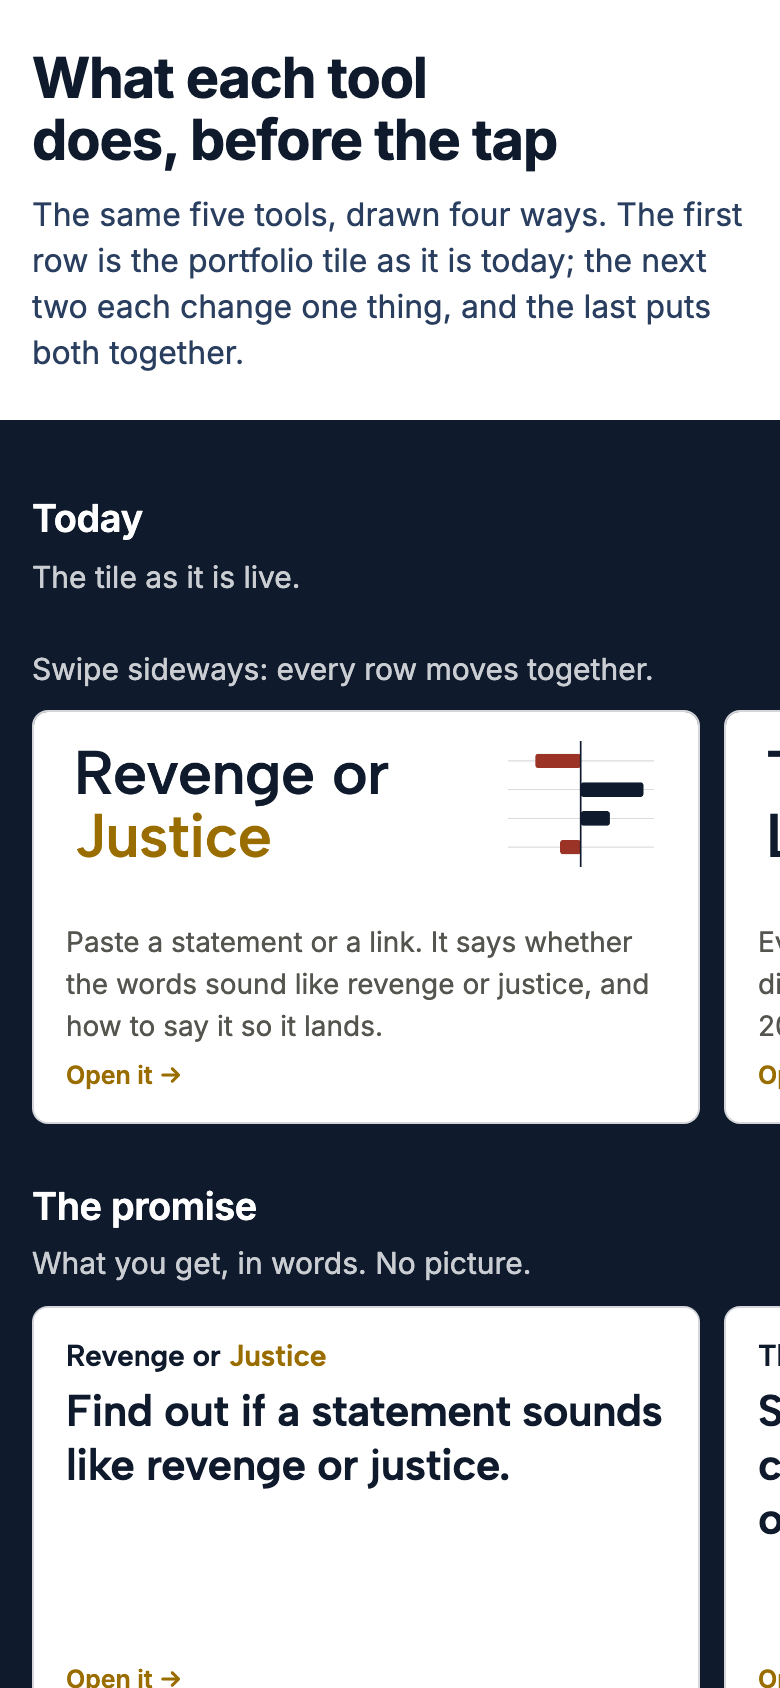
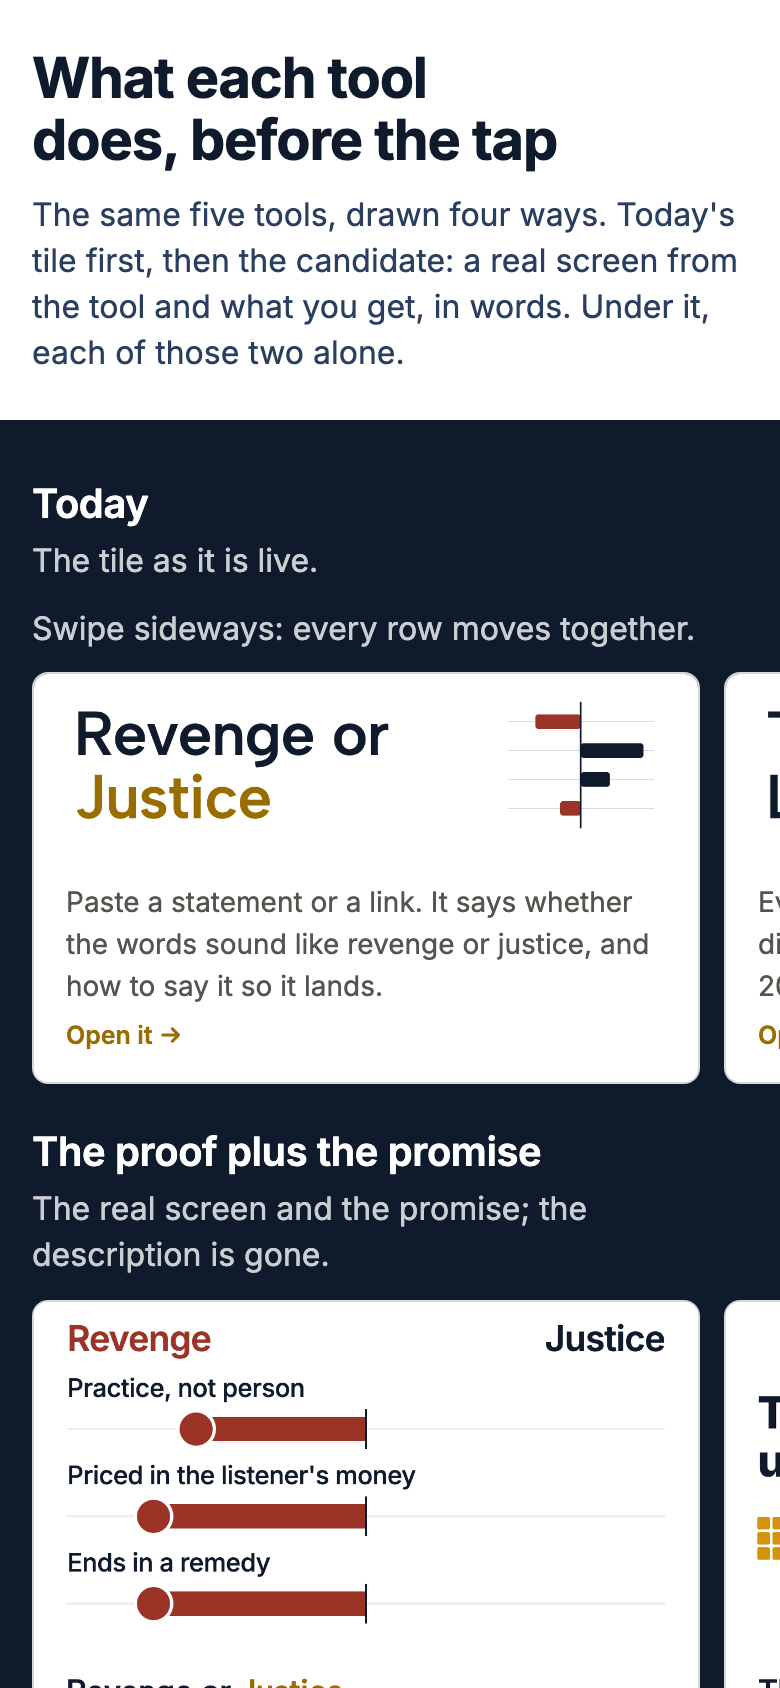
tile-value mockup, third pass on the second review's six fixes
Letters is one H with its three strokes numbered and arrowed, in the app's own
classes. Revenge or Justice shows three named readings as bars with an end dot
and large Revenge and Justice ends, from the one real reading. The Undo List is
cut to its headline and squares. The candidate row sits second, on the first
screen at 1440x900. Wonder Cards' promise loses its second sentence. One
promise size and five type sizes on the page.

diff --git a/public/mockups/tile-value.html b/public/mockups/tile-value.html
@@ -5,7 +5,7 @@
 <meta name="viewport" content="width=device-width, initial-scale=1">
 <meta name="robots" content="noindex">
 <title>What each tool does, before the tap</title>
-<meta name="description" content="Five portfolio tiles drawn four ways: today's tile, the promise, the proof, and the proof plus the promise.">
+<meta name="description" content="Five portfolio tiles drawn four ways: today's tile, the proof plus the promise, then each alone.">
 <meta property="og:title" content="What each tool does, before the tap">
 <meta property="og:description" content="Five portfolio tiles drawn four ways, to pick how a tile says what its tool does.">
 <meta property="og:image" content="https://hoplight.ai/og.png">
@@ -21,8 +21,9 @@
   do that artfully clearly and tastefully".
 
   The job: a stranger sees, before tapping, what each tool does for them. Five tools (Revenge or Justice,
-  The Undo List, Letters, Which AI should I use?, Wonder Cards), four rows: today's live tile and three
-  treatments (the promise, the proof, and both together; the first-move row was folded into the last). Columns line up, so one tool stacks down the page and a row reads
+  The Undo List, Letters, Which AI should I use?, Wonder Cards), four rows: today's live tile, then the
+  candidate (the proof plus the promise, with the first move as its link), then the promise alone and the
+  proof alone as the alternatives. The candidate sits second so it shows on the first screen. Columns line up, so one tool stacks down the page and a row reads
   as a whole portfolio.
 
   References borrowed (design/references/REFERENCES.md):
@@ -77,15 +78,17 @@ html, body { margin: 0; background: #FFFFFF; color: #0F1B2D; }
 body { font-family: 'Inter', -apple-system, BlinkMacSystemFont, 'Segoe UI', Helvetica, Arial, sans-serif; font-size: 16px; line-height: 1.45; -webkit-text-size-adjust: 100%; }
 .sr { position: absolute; width: 1px; height: 1px; overflow: hidden; clip: rect(0 0 0 0); white-space: nowrap; }
 
-.top { max-width: 1440px; margin: 0 auto; padding: 32px 24px 28px; }
+.top { max-width: 1440px; margin: 0 auto; padding: 28px 24px 22px; }
 h1 { font-size: clamp(28px, 1.2rem + 1.6vw, 42px); font-weight: 700; letter-spacing: -0.02em; line-height: 1.1; margin: 0 0 10px; text-wrap: balance; }
-.lede { margin: 0; font-size: 17px; max-width: 62ch; color: #2A3F5F; }
+.lede { margin: 0; font-size: 16px; color: #2A3F5F; }
 
 .field { background: #0F1B2D; color: #FFFFFF; padding: 8px 0 48px; }
 .grid { max-width: 1440px; margin: 0 auto; padding: 0 24px; display: grid; grid-template-columns: repeat(5, minmax(0, 1fr)); column-gap: 16px; }
-.rowhead { grid-column: 1 / -1; padding: 36px 0 14px; }
+/* At desktop a row's name and note share one line, so the candidate row reaches the first screen. */
+.rowhead { grid-column: 1 / -1; padding: 26px 0 12px; }
+.rowhead > div { display: flex; flex-wrap: wrap; align-items: baseline; column-gap: 14px; }
 .rowhead h2 { font-size: 20px; font-weight: 600; letter-spacing: -0.01em; margin: 0; }
-.rowhead p { margin: 4px 0 0; font-size: 15px; color: rgba(255, 255, 255, 0.78); max-width: 72ch; }
+.rowhead p { margin: 2px 0 0; font-size: 16px; color: rgba(255, 255, 255, 0.78); max-width: 72ch; }
 .swipe { display: none; }
 
 /* A tile, as the live portfolio draws it (globals.css .wcard), then changed one way per row. */
@@ -93,13 +96,13 @@ h1 { font-size: clamp(28px, 1.2rem + 1.6vw, 42px); font-weight: 700; letter-spac
 .tile:focus-visible { outline: 3px solid #E8A820; outline-offset: 3px; }
 .pic { aspect-ratio: 1200 / 630; background: #0F1B2D; overflow: hidden; }
 .pic img { width: 100%; height: 100%; display: block; object-fit: cover; }
-.body { padding: 20px; flex: 1; display: flex; flex-direction: column; }
+.body { padding: 16px 20px; flex: 1; display: flex; flex-direction: column; }
 .line { margin: 0; font-size: 14px; line-height: 1.5; color: #555550; flex: 1; }
 .go { margin-top: 12px; font-size: 12.5px; font-weight: 600; color: #996D00; }
 .tile:hover .go { text-decoration: underline; text-underline-offset: 3px; }
 
 /* The tool's name in its own face and colours, small, above a promise or a line. */
-.nm { font-family: var(--face); font-weight: var(--w); font-size: 15px; line-height: 1.15; letter-spacing: -0.01em; color: var(--ink); margin: 0 0 6px; }
+.nm { font-family: var(--face); font-weight: var(--w); font-size: 16px; line-height: 1.15; letter-spacing: -0.01em; color: var(--ink); margin: 0 0 6px; }
 .nm b { font-weight: inherit; color: var(--accent); }
 .pr { font-family: var(--face); font-weight: var(--w); font-size: 20px; line-height: 1.22; letter-spacing: -0.015em; color: var(--ink); margin: 0; flex: 1; text-wrap: pretty; }
 
@@ -107,25 +110,25 @@ h1 { font-size: clamp(28px, 1.2rem + 1.6vw, 42px); font-weight: 700; letter-spac
 .say { background: var(--ground); padding: 20px; flex: 1; display: flex; flex-direction: column; min-height: 168px; }
 .say .nm { color: var(--onground); }
 .say .nm b { color: var(--onaccent); }
-.say .pr { color: var(--onground); font-size: 22px; }
+.say .pr { color: var(--onground); }
 .foot { padding: 12px 20px 14px; }
 .foot .go { margin-top: 0; }
 
-/* The proof plus the promise: the name small, the promise under it, the line gone. */
-.both .pr { font-size: 19px; }
+/* Five type sizes on the page: 42 the title, 20 the row names and every promise (one size in both
+   promise rows, so the alternative is never louder than the candidate), 16 the lede, row notes and
+   tool names, 14 the tile line as live, 12.5 the link as live. */
 
 @media (max-width: 1099px) {
   /* Phone and tablet: the field swipes sideways as one piece, so every row moves together and one
      tool stays stacked down the page. The row names stay pinned to the left edge while it moves. */
   .field { overflow-x: auto; scroll-snap-type: x mandatory; scroll-padding-left: 16px; -webkit-overflow-scrolling: touch; overscroll-behavior-x: contain; }
   .grid { --tw: min(334px, calc(100vw - 56px)); grid-template-columns: repeat(5, var(--tw)); column-gap: 12px; padding: 0 16px; width: max-content; max-width: none; }
-  .rowhead { padding: 28px 0 10px; }
-  .rowhead > div { position: sticky; left: 16px; width: calc(100vw - 32px); }
-  .rowhead h2 { font-size: 19px; }
+  .rowhead { padding: 20px 0 10px; }
+  .rowhead > div { display: block; position: sticky; left: 16px; width: calc(100vw - 32px); }
+  .lede { max-width: 62ch; }
   .tile { scroll-snap-align: start; }
-  .swipe { display: block; margin: 0; padding: 20px 0 0; font-size: 14px; color: rgba(255, 255, 255, 0.78); }
+  .swipe { display: block; margin: 0; padding: 8px 0 0; font-size: 14px; color: rgba(255, 255, 255, 0.78); }
   .top { padding: 24px 16px 22px; }
-  .lede { font-size: 16px; }
 }
 @media (max-width: 640px) {
   /* As live at this width: the card face is cropped to its middle band and the text sits tighter. */
@@ -141,7 +144,7 @@ h1 { font-size: clamp(28px, 1.2rem + 1.6vw, 42px); font-weight: 700; letter-spac
 <main>
   <div class="top">
     <h1>What each tool does, before the tap</h1>
-    <p class="lede">The same five tools, drawn four ways. The first row is the portfolio tile as it is today; the next two each change one thing, and the last puts both together.</p>
+    <p class="lede">The same five tools, drawn four ways. Today's tile first, then the candidate: a real screen from the tool and what you get, in words. Under it, each of those two alone.</p>
   </div>
   <section class="field" aria-label="Four ways to draw a tile">
     <div class="grid" id="grid"></div>
@@ -164,7 +167,7 @@ h1 { font-size: clamp(28px, 1.2rem + 1.6vw, 42px); font-weight: 700; letter-spac
       promise: 'Find out if a statement sounds like revenge or justice.',
       // Its page's first instruction: "Paste a statement or a link."
       move: 'Paste a statement',
-      proofAlt: 'A real reading from Revenge or Justice: three bars running left from the centre line toward Revenge, away from Justice.' },
+      proofAlt: 'One real reading from Revenge or Justice: Practice, not person; Priced in the listener\'s money; Ends in a remedy; each a bar running from the centre toward Revenge, away from Justice.' },
     { slug: 'undo', name: 'The Undo List', plain: 'The Undo List', href: '/undo',
       face: ALBERT, w: 600, ink: NAVY, accent: NAVY, ground: WHITE, onground: NAVY, onaccent: NAVY,
       line: 'Everything the second Trump administration did, sorted by what it takes to undo it in 2029.',
@@ -172,7 +175,7 @@ h1 { font-size: clamp(28px, 1.2rem + 1.6vw, 42px); font-weight: 700; letter-spac
       promise: 'See what the next president can undo, and what each one takes.',
       // Its first screen's one button: "Sign the first order".
       move: 'Sign the first order',
-      proofAlt: 'The Undo List: the headline Thirteen signatures undo 275 things, over a field of squares, the first block gold.' },
+      proofAlt: 'The Undo List: the headline Thirteen signatures undo 275 things, over rows of squares, the first block gold.' },
     { slug: 'letters', name: 'Letters', plain: 'Letters', href: 'https://letters-ten-eta.vercel.app', ext: true,
       face: INTER, w: 700, ink: '#3A3226', accent: '#B4541A', ground: '#E9F0F3', onground: '#3A3226', onaccent: '#B4541A',
       line: 'A letter-formation app for a four-year-old: where each stroke starts, which way it goes, and in what order. Then paper.',
@@ -180,7 +183,7 @@ h1 { font-size: clamp(28px, 1.2rem + 1.6vw, 42px); font-weight: 700; letter-spac
       promise: 'Teach a four-year-old where each stroke starts and which way it goes.',
       // Its first screen's button is "Start"; what follows is tracing (tools.ts: "letter-formation").
       move: 'Start tracing',
-      proofAlt: 'Letters: the letter H three times, its strokes numbered 1, 2 and 3 in order, each with an arrow showing which way it goes.' },
+      proofAlt: 'Letters: the letter H, its three strokes numbered 1, 2 and 3 in order, each with an arrow showing which way it goes.' },
     { slug: 'which-ai-should-i-use', name: 'Which AI should I use?', plain: 'Which AI should I use?', href: '/tools/which-ai',
       face: ALBERT, w: 600, ink: NAVY, accent: NAVY, ground: WHITE, onground: NAVY, onaccent: NAVY,
       line: 'Answer a few questions, get told which model fits the job.',
@@ -195,8 +198,8 @@ h1 { font-size: clamp(28px, 1.2rem + 1.6vw, 42px); font-weight: 700; letter-spac
       // talking about, one at a time, on sunlit poolside photographs, a Capri lemon grove").
       line: 'Questions worth talking about, one card at a time, on photographs of Capri and Palm Beach.',
       // Its page: the card's label "A question to talk about"; the topic screen "Where shall we sit today?";
-      // its description "Press once for another card, or sit with a single topic".
-      promise: 'A question to talk about, whenever you sit down together. Press once for the next.',
+      // its description "sit with a single topic".
+      promise: 'A question to talk about, whenever you sit down together.',
       // Its card's main button: "Draw another card".
       move: 'Draw a card',
       proofAlt: 'Wonder Cards: a card from the Screen topic asking What do you watch now that would have shocked you at twenty?' },
@@ -205,12 +208,12 @@ h1 { font-size: clamp(28px, 1.2rem + 1.6vw, 42px); font-weight: 700; letter-spac
   var ROWS = [
     { key: 'today', title: 'Today',
       note: 'The tile as it is live.' },
-    { key: 'promise', title: 'The promise',
-      note: 'What you get, in words. No picture.' },
-    { key: 'proof', title: 'The proof',
-      note: 'A real screen from the tool replaces the drawn mark.' },
     { key: 'both', title: 'The proof plus the promise',
       note: 'The real screen and the promise; the description is gone.' },
+    { key: 'promise', title: 'The promise alone',
+      note: 'What you get, in words. No picture.' },
+    { key: 'proof', title: 'The proof alone',
+      note: 'A real screen from the tool replaces the drawn mark.' },
   ];
 
   function esc(s) { return s.replace(/&/g, '&amp;').replace(/</g, '&lt;').replace(/>/g, '&gt;').replace(/"/g, '&quot;'); }

diff --git a/docs/renders/tilevalue1-2026-11-07/rj-scored.html b/docs/renders/tilevalue1-2026-11-07/rj-scored.html
@@ -1,0 +1,45 @@
+<!doctype html>
+<html lang="en">
+<head>
+<meta charset="utf-8">
+<meta name="robots" content="noindex">
+<title>Revenge or Justice, one reading scored (tile picture)</title>
+<!--
+  TILEVALUE1 second review, 2026-11-07: the Revenge or Justice proof picture, drawn at 1200 by 630 because
+  the tool's own bars are too small to read on a phone tile. Every number and word is from one real
+  reading the lane took on 2026-11-07 (the Times of India Raskin article from the tool's recent list,
+  verdict "Leans revenge"): its first three readings by their own names, each bar's length measured off
+  the tool's own render (rj-hero.png: 0.64, 0.80 and 0.80 of the way from the centre line to the
+  Revenge end). Colours from that render: bar #9C3327, centre line #0F1B2D (one short line per row, as the tool draws it), track #ECEDEF.
+  Rendered by capture.mjs (job rjscored).
+-->
+<style>
+@font-face { font-family: 'Inter'; src: url('../../../public/fonts/inter-latin-wght-normal.woff2') format('woff2'); font-weight: 100 900; }
+html, body { margin: 0; background: #FFFFFF; }
+body { width: 1200px; height: 630px; font-family: 'Inter', sans-serif; color: #0F1B2D; position: relative; overflow: hidden; }
+.ends { position: absolute; top: 34px; left: 60px; right: 60px; display: flex; justify-content: space-between; font-size: 64px; font-weight: 600; letter-spacing: -0.02em; line-height: 1; }
+.ends .r { color: #9C3327; }
+.row { position: absolute; left: 60px; right: 60px; height: 150px; }
+.row .lab { font-size: 46px; font-weight: 500; letter-spacing: -0.015em; line-height: 1; margin: 0; }
+.row .track { position: absolute; left: 0; right: 0; top: 96px; height: 4px; background: #ECEDEF; }
+.row .bar { position: absolute; top: 76px; height: 44px; background: #9C3327; border-radius: 4px 0 0 4px; }
+.row .mid { position: absolute; left: 538px; top: 62px; width: 4px; height: 72px; background: #0F1B2D; }
+.row .dot { position: absolute; top: 68px; width: 60px; height: 60px; margin-left: -30px; border-radius: 50%; background: #9C3327; box-shadow: 0 0 0 6px #FFFFFF; }
+</style>
+</head>
+<body>
+  <div class="ends"><span class="r">Revenge</span><span>Justice</span></div>
+  <div id="rows"></div>
+<script>
+  // name, share of the way from the centre to the Revenge end (from the tool's own render)
+  var R = [['Practice, not person', 0.64], ["Priced in the listener's money", 0.80], ['Ends in a remedy', 0.80]];
+  var half = 480, mid = 540; // the centre line sits at 600 on the page, 540 inside a row
+  document.getElementById('rows').innerHTML = R.map(function (r, i) {
+    var w = Math.round(r[1] * half);
+    return '<div class="row" style="top:' + (132 + i * 158) + 'px"><p class="lab">' + r[0] + '</p><div class="track"></div>'
+      + '<div class="bar" style="left:' + (mid - w) + 'px;width:' + w + 'px"></div>'
+      + '<div class="dot" style="left:' + (mid - w) + 'px"></div><div class="mid"></div></div>';
+  }).join('');
+</script>
+</body>
+</html>

diff --git a/docs/renders/tilevalue1-2026-11-07/crops.py b/docs/renders/tilevalue1-2026-11-07/crops.py
@@ -24,29 +24,30 @@ def fit(im, ground):
 def crop(name, box):
     return Image.open(f'{raw}/{name}').convert('RGB').crop(box)
 
-def strip(names, box, ground, gap):
-    """Real frames of one screen side by side, each cut to the same box, a gap of ground between."""
-    ims = [crop(n, box) for n in names]
-    w = sum(i.width for i in ims) + gap * (len(ims) + 1)
-    canvas = Image.new('RGB', (w, ims[0].height + gap), ground)
-    x = gap
-    for i in ims:
-        canvas.paste(i, (x, gap // 2)); x += i.width + gap
+def stack(pieces, ground, gap, pad):
+    """Real cuts of one screen stacked top to bottom, left-aligned, with gap and pad of its ground."""
+    w = max(i.width for i in pieces) + 2 * pad
+    h = sum(i.height for i in pieces) + gap * (len(pieces) - 1) + 2 * pad
+    canvas = Image.new('RGB', (w, h), ground)
+    y = pad
+    for i in pieces:
+        canvas.paste(i, (pad, y)); y += i.height + gap
     return canvas
 
 # Each box is in the capture's own pixels (520 wide at 3x, The Undo List 1440 wide at 2x).
 jobs = [
-    # Revenge or Justice: one real reading (the Times of India Raskin article, 2026-11-07), cut to the
-    # Revenge and Justice ends and its first three bars out from the centre line; the row names and
-    # scores are left off so the ends read large at phone size.
-    ('proof-revenge-or-justice.png', crop('rj-hero.png', (355, 835, 1345, 1345)), '#FFFFFF'),
-    # The Undo List: the headline, its sentence and button, and the first row of blocks, the first one
-    # signed and gold. Cut to the left side of its 1440 layout so the headline reads at phone size.
-    ('proof-undo.png', crop('undo-full.png', (336, 336, 1784, 1100)), '#FFFFFF'),
-    # Letters: the letter H, three real frames of the app's glyph in its blue ground, one before each
-    # stroke: stroke 1 numbered on the pale letter, then 2 with the first in ink, then 3 with both.
-    ('proof-letters.png', strip(['letters-h-1.png', 'letters-h-2.png', 'letters-h-3.png'],
-                                (0, 440, 1460, 2010), '#E9F0F3', 280), '#E9F0F3'),
+    # Revenge or Justice: its first three readings from one real reading (the Times of India Raskin
+    # article, 2026-11-07), drawn large by rj-scored.html because the tool's own bars are too small
+    # on a phone; names, lengths and colours are the tool's own (see that file).
+    ('proof-revenge-or-justice.png', Image.open(f'{raw}/rj-scored.png').convert('RGB'), '#FFFFFF'),
+    # The Undo List: two cuts of its first screen (1440 wide, 2x), stacked: the headline "Thirteen
+    # signatures undo 275 things." and the top three rows of squares of the first five blocks, the
+    # first block signed and gold. The paragraph, button, eyebrow and block numbers are left out.
+    ('proof-undo.png', stack([crop('undo-full.png', (396, 398, 1312, 612)),
+                              crop('undo-full.png', (396, 930, 1740, 1040))], '#FFFFFF', 64, 70), '#FFFFFF'),
+    # Letters: one H in the live app with all three strokes drawn and numbered 1, 2, 3, each with its
+    # arrow, in the app's own classes (capture.mjs, job letters, says how and why it is the composite).
+    ('proof-letters.png', crop('letters-h-one.png', (0, 340, 1500, 2130)), '#E9F0F3'),
     # Which AI should I use?: the recommendation a writer handling confidential material gets, cut to
     # the model's name and its one line.
     ('proof-which-ai-should-i-use.png', crop('whichai-full.png', (140, 645, 1210, 870)), '#FFFFFF'),
